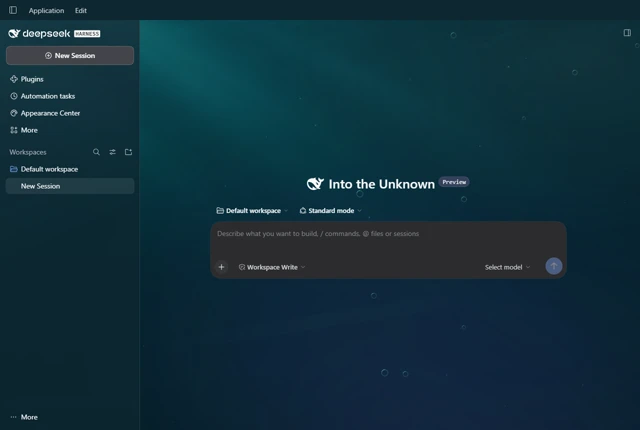
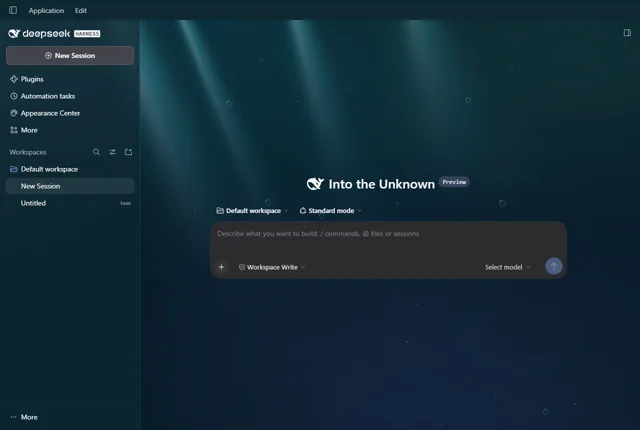
Render Deep Ocean V2 light shafts on the shared canvas

diff --git a/src/client/effects/providers/ocean-lightfield.ts b/src/client/effects/providers/ocean-lightfield.ts
@@ -1,0 +1,88 @@
+import { effectDefinitions } from '../../../core/effects.js'
+import { defineProvider, EFFECT_PROVIDER_API } from './contract.js'
+
+// One small translucent texture is shared by all shafts. Its widening profile models
+// scattering with depth, while the thinner, brighter core fades near the surface.
+function makeShaft(document: Document, scatter: number) {
+  const tile = document.createElement('canvas')
+  tile.width = 96
+  tile.height = 192
+  const ctx = tile.getContext('2d')
+  if (!ctx) throw new Error('Ocean lightfield needs Canvas 2D')
+  const image = ctx.createImageData(tile.width, tile.height)
+  for (let y = 0; y < tile.height; y++) {
+    const depth = y / (tile.height - 1)
+    const radius = 0.19 + depth * (0.27 + scatter * 0.32)
+    const falloff = (1 - depth) ** 1.55
+    for (let x = 0; x < tile.width; x++) {
+      const lateral = (2 * x / (tile.width - 1) - 1) / radius
+      const haze = Math.exp(-1.8 * lateral * lateral)
+      const core = Math.exp(-10 * (lateral + 0.28) ** 2)
+      const light = haze * 0.68 + core * (1 - depth) * 0.32
+      const index = 4 * (y * tile.width + x)
+      image.data[index] = 91 + 62 * core
+      image.data[index + 1] = 223 - 39 * depth
+      image.data[index + 2] = 224 + 18 * depth
+      image.data[index + 3] = 255 * light * falloff
+    }
+  }
+  ctx.putImageData(image, 0, 0)
+  return tile
+}
+
+const shafts = [
+  { x: 0.17, width: 0.32, depth: 0.96, slope: 0.39, opacity: 0.89, phase: 1.4 },
+  { x: 0.46, width: 0.23, depth: 0.74, slope: 0.30, opacity: 0.69, phase: 3.7 },
+  { x: 0.27, width: 0.15, depth: 0.85, slope: 0.41, opacity: 0.72, phase: 2.2 },
+  { x: 0.65, width: 0.41, depth: 0.67, slope: 0.28, opacity: 0.49, phase: 5.2 },
+  { x: 0.06, width: 0.12, depth: 0.63, slope: 0.44, opacity: 0.57, phase: 0.9 },
+]
+
+export const oceanLightfield = defineProvider(effectDefinitions.oceanLightfield, {
+  api: EFFECT_PROVIDER_API,
+  budget: quality => ({ low: 2, balanced: 4, high: 5 })[quality],
+  mount(context, { intensity, beamLength, drift, scatter, beamCount }) {
+    if (!intensity) return
+    const tile = makeShaft(context.scene.ownerDocument, scatter)
+    context.own(() => { tile.width = tile.height = 0 })
+    let count = 0
+    let motion = false
+    let visible = false
+    let time = 0
+    return {
+      update(state, limit) {
+        const previous = visible
+        visible = state.canvas && !state.reducedTransparency
+        count = Math.min(beamCount, limit)
+        motion = visible && state.dynamic && state.quality !== 'low' && drift > 0
+        return previous !== visible
+      },
+      canvas: {
+        visible: () => visible,
+        animated: () => motion,
+        draw(ctx, width, height, delta) {
+          if (motion) time += delta
+          const swell = Math.sin(time * 0.27)
+          for (const shaft of shafts.slice(0, count)) {
+            const ripple = Math.sin(time * 0.41 + shaft.phase)
+            const length = height * beamLength * shaft.depth
+            const breadth = width * shaft.width * (1 + drift * ripple * 0.14)
+            const source = width * (shaft.x + drift * (swell * 0.023 + ripple * 0.014))
+            ctx.save()
+            ctx.globalAlpha = intensity * shaft.opacity * (0.94 + 0.06 * drift * ripple)
+            ctx.transform(1, 0, shaft.slope + drift * (swell + ripple) * 0.042, 1, source, 0)
+            ctx.drawImage(tile, -breadth / 2, 0, breadth, length)
+            ctx.restore()
+          }
+        },
+      },
+    }
+  },
+  fallback(context, { intensity, beamLength }) {
+    if (!intensity) return
+    const layer = context.layer('ocean-lightfield-fallback')
+    Object.assign(layer.style, { position: 'absolute', inset: '0', height: beamLength * 100 + '%',
+      opacity: String(intensity), background: 'radial-gradient(ellipse at 25% -35%, #59d5dd80, transparent 65%)' })
+    return { layout(state) { layer.hidden = !state.canvas || state.reducedTransparency; return !layer.hidden } }
+  },
+})

diff --git a/src/core/effect-descriptors.ts b/src/core/effect-descriptors.ts
@@ -2,11 +2,11 @@ export type Bounds = readonly [minimum: number, maximum: number, initial: number
 type Measure = 'blur' | 'radius' | 'intensity' | 'density' | 'brightness' | 'distortion'
 export const effectGroups = ['group.environment', 'group.materials', 'group.interaction'] as const
 type Group = (typeof effectGroups)[number]
-export type SecondaryEffectPreference = 'movement' | 'speed'
+export type SecondaryEffectPreference = 'movement' | 'speed' | 'length'
 export interface SecondaryEffectControl {
   parameter: string
   bounds: Bounds
-  label: `${'aurora' | 'curtain'}.${SecondaryEffectPreference}`
+  label: 'aurora.movement' | 'aurora.speed' | 'curtain.movement' | 'curtain.speed' | 'ocean.length' | 'ocean.drift'
 }
 
 interface EffectDescriptor {
@@ -27,7 +27,7 @@ interface EffectDescriptor {
   }
   secondary?: {
     whenDefined: string
-    controls: Record<SecondaryEffectPreference, SecondaryEffectControl>
+    controls: Partial<Record<SecondaryEffectPreference, SecondaryEffectControl>>
   }
   optIn?: true
   hint?: 'optionalWebgl'
@@ -50,6 +50,17 @@ export const effectDescriptors = {
       controls: {
         movement: { parameter: 'movement', bounds: [0, 1, 0], label: 'aurora.movement' },
         speed: { parameter: 'speed', bounds: [0.1, 1, 0.25], label: 'aurora.speed' },
+      },
+    },
+  },
+  'ambient.ocean-lightfield': {
+    group: 'group.environment',
+    strength: { parameter: 'intensity', bounds: [0, 1, 0.65], measure: 'intensity' },
+    secondary: {
+      whenDefined: 'beamLength',
+      controls: {
+        length: { parameter: 'beamLength', bounds: [0.5, 0.85, 0.72], label: 'ocean.length' },
+        movement: { parameter: 'drift', bounds: [0, 1, 0.38], label: 'ocean.drift' },
       },
     },
   },

diff --git a/src/core/skin-package.ts b/src/core/skin-package.ts
@@ -1,6 +1,6 @@
 import { gte, minVersion } from 'semver'
 import { parseSkinEffects } from './effects.js'
-import { AURORA_CURTAIN_API_VERSION, DUAL_APPEARANCE_API_VERSION, parseSkinManifest } from './manifest.js'
+import { AURORA_CURTAIN_API_VERSION, DUAL_APPEARANCE_API_VERSION, OCEAN_LIGHTFIELD_API_VERSION, parseSkinManifest } from './manifest.js'
 import { parseScene } from './scene.js'
 import { parseSkinTokens } from './tokens.js'
 import { invalid } from './validation.js'
@@ -14,6 +14,12 @@ export function parseSkinPackage(files: { manifest: unknown; tokens: unknown; ef
   }
   const tokens = parseSkinTokens(files.tokens)
   const effects = parseSkinEffects(files.effects, manifest.capabilities)
+  if (effects.effects.some(effect => effect.id === 'ambient.ocean-lightfield')) {
+    const minimum = minVersion(manifest.engineApi)
+    if (!minimum || !gte(minimum, OCEAN_LIGHTFIELD_API_VERSION)) {
+      invalid('skin.json', 'engineApi', 'ocean-lightfield-engine-api', 'Ocean lightfield requires Engine API 1.9.0 or later')
+    }
+  }
   if (effects.effects.some(effect => effect.id === 'ambient.aurora-curtain')) {
     const minimum = minVersion(manifest.engineApi)
     if (!minimum || !gte(minimum, AURORA_CURTAIN_API_VERSION)) {

diff --git a/src/core/effects.ts b/src/core/effects.ts
@@ -38,6 +38,7 @@ const sizeRange = z.tuple([particleSize, particleSize]).check(z.refine(
   ([min, max]) => min <= max, 'Expected sizes in ascending order',
 ))
 const auroraControls = effectDescriptors['ambient.aurora'].secondary.controls
+const ocean = effectDescriptors['ambient.ocean-lightfield']
 const curtain = effectDescriptors['ambient.aurora-curtain']
 
 export const effectDefinitions = {
@@ -55,6 +56,13 @@ export const effectDefinitions = {
     blur: number(0, 96, 48),
     direction: number(0, 360, 35),
     [auroraControls.movement.parameter]: optionalNumber(auroraControls.movement.bounds),
+  })),
+  oceanLightfield: defineEffect('ambient.ocean-lightfield', 'canvas2d', z.strictObject({
+    intensity: number(...ocean.strength.bounds),
+    beamLength: number(...ocean.secondary.controls.length.bounds),
+    drift: number(...ocean.secondary.controls.movement.bounds),
+    scatter: number(0.1, 0.8, 0.42),
+    beamCount: integer(2, 5, 4),
   })),
   auroraCurtain: defineEffect('ambient.aurora-curtain', 'css', z.strictObject({
     [curtain.strength.parameter]: number(...curtain.strength.bounds),

diff --git a/src/shared/preferences.ts b/src/shared/preferences.ts
@@ -11,7 +11,7 @@ export type QualityChoice = (typeof qualityLevels)[number]
 export type Quality = Exclude<QualityChoice, 'auto'>
 
 export const editableColors = ['canvas', 'surface', 'accent'] as const
-export interface EffectPreference { enabled?: boolean; strength?: number; speed?: number; movement?: number }
+export interface EffectPreference { enabled?: boolean; strength?: number; speed?: number; movement?: number; length?: number }
 
 export interface SkinPreferences {
   artwork?: ArtworkPreference
@@ -43,7 +43,7 @@ export function defaultComposerTransparency(skinId: string) {
 }
 
 export function sameEffectPreference(a?: EffectPreference, b?: EffectPreference) {
-  return a?.enabled === b?.enabled && a?.strength === b?.strength && a?.speed === b?.speed && a?.movement === b?.movement
+  return a?.enabled === b?.enabled && a?.strength === b?.strength && a?.speed === b?.speed && a?.movement === b?.movement && a?.length === b?.length
 }
 
 function readEffectNumber(effect: SkinEffect, parameter: string, fallback: number) {

diff --git a/src/core/manifest.ts b/src/core/manifest.ts
@@ -11,7 +11,8 @@ export const ARTWORK_MOTION_API_VERSION = '1.4.0'
 const ARTWORK_LIGHT_API_VERSION = '1.5.0'
 const EFFECT_TUNING_API_VERSION = '1.6.0'
 export const AURORA_CURTAIN_API_VERSION = '1.8.0'
-export const ENGINE_API_VERSION = AURORA_CURTAIN_API_VERSION
+export const OCEAN_LIGHTFIELD_API_VERSION = '1.9.0'
+export const ENGINE_API_VERSION = OCEAN_LIGHTFIELD_API_VERSION
 const PRIMARY_ARTWORK_API_VERSION = '1.7.0'
 
 const capabilities = ['tokens', 'css', 'assets', 'effects:css', 'effects:canvas2d', 'effects:webgl', 'scene'] as const
@@ -117,6 +118,7 @@ export function checkSkinCompatibility(manifest: SkinManifest, dshVersion: strin
     }
   }
   const compatible = satisfies(ENGINE_API_VERSION, manifest.engineApi)
+    || satisfies(AURORA_CURTAIN_API_VERSION, manifest.engineApi)
     || satisfies(PRIMARY_ARTWORK_API_VERSION, manifest.engineApi)
     || satisfies(EFFECT_TUNING_API_VERSION, manifest.engineApi)
     || satisfies(ARTWORK_LIGHT_API_VERSION, manifest.engineApi)

diff --git a/src/client/settings-copy.ts b/src/client/settings-copy.ts
@@ -164,6 +164,9 @@ const en = {
   restart: "Quit and reopen DSH Desktop, or restart the DSH Web Host and reload this page.",
   hostUnavailable: "Host unavailable.",
   "effect.glass.liquid": "Liquid Glass",
+  "effect.ambient.ocean-lightfield": "Ocean lightfield",
+  "ocean.length": "Beam length",
+  "ocean.drift": "Beam drift",
   "effect.ambient.aurora": "Aurora",
   "effect.ambient.aurora-curtain": "Aurora curtain",
   "curtain.movement": "Curtain fold amplitude",
@@ -445,6 +448,9 @@ const zh: Record<Key, string> = {
   restart: "请退出并重新打开 DSH Desktop，或重启 DSH Web 宿主并重新加载页面。",
   hostUnavailable: "无法连接宿主。",
   "effect.glass.liquid": "液态玻璃",
+  "effect.ambient.ocean-lightfield": "深海光场",
+  "ocean.length": "光束长度",
+  "ocean.drift": "光束漂移",
   "effect.ambient.aurora": "极光",
   "effect.ambient.aurora-curtain": "极光帘幕",
   "curtain.movement": "光幕褶皱幅度",

diff --git a/src/client/effects/providers/index.ts b/src/client/effects/providers/index.ts
@@ -1,4 +1,5 @@
 import type { effectDefinitions } from '../../../core/effects.js'
+import { oceanLightfield } from './ocean-lightfield.js'
 import { auroraCurtain } from './aurora-curtain.js'
 import { ambientLight } from './ambient-light.js'
 import { bubbles, dust, ripple, stars } from './canvas-effects.js'
@@ -7,7 +8,7 @@ import { aurora, brightness, flow, glass, holographic, refraction } from './mate
 import { createProviderRegistry } from './runtime.js'
 
 // Registration order controls composition within the scene's managed surfaces.
-const providers = { refraction, aurora, auroraCurtain, glass, holographic, flow, ambientLight, brightness, dust, bubbles, stars, ripple } satisfies {
+const providers = { refraction, aurora, auroraCurtain, oceanLightfield, glass, holographic, flow, ambientLight, brightness, dust, bubbles, stars, ripple } satisfies {
   [Name in keyof typeof effectDefinitions]: RegisteredProvider<(typeof effectDefinitions)[Name]['id']>
 }
 

diff --git a/src/host/preference-schema.ts b/src/host/preference-schema.ts
@@ -24,10 +24,11 @@ export const bundledSkinPreferencesSchema = z.strictObject({
     enabled: z.optional(z.boolean()),
     strength: z.optional(z.number().check(z.minimum(0), z.maximum(1))),
     speed: numericPreference(secondary.speed.bounds),
+    length: numericPreference(effectDescriptors['ambient.ocean-lightfield'].secondary.controls.length.bounds),
     movement: numericPreference(secondary.movement.bounds),
   })).check(z.refine(effects => Object.entries(effects).every(([id, effect]) =>
-    (effect.speed === undefined && effect.movement === undefined)
-      || (Object.hasOwn(effectDescriptors, id) && Boolean(describeEffect(id as EditableEffect).secondary)))))),
+    (['length', 'speed', 'movement'] as const).every(key => effect[key] === undefined
+      || Boolean(describeEffect(id as EditableEffect).secondary?.controls[key])))))),
   quality: z.optional(z.enum(qualityLevels)),
 })
 

diff --git a/skin-sources/examples/skins/deep-ocean-v2/theme.css b/skin-sources/examples/skins/deep-ocean-v2/theme.css
@@ -1,5 +1,1 @@
-:root[data-dsh-skin-id="com.dsh.skin.deep-ocean-v2"] [data-dsh-skin-package-art] {
-  background-image: url("assets/underwater-light.webp");
-  background-size: cover;
-  opacity: 0.35;
-}
+/* Water color comes from theme tokens. The engine draws all sunbeams. */

diff --git a/docs/deep-ocean-v2-lightfield.md b/docs/deep-ocean-v2-lightfield.md
@@ -1,0 +1,13 @@
+# Deep Ocean V2 · 动态光场
+
+皮肤包 `0.2.0` 使用 Engine API `^1.9.0`。在外观中心更新已安装的「深海光境」ZIP，再到「效果与性能」调整深海光场的光强、光束长度和漂移。亮度归零后，气泡与浮尘仍可独立显示。低画质使用两束静止的光，平衡与高画质分别最多绘制四束和五束。
+
+## Windows Desktop 实拍
+
+官方 DSH `0.2.2-rc.5`，隔离配置，1280 × 860 CSS 像素。将 Alpha 在同一窗口原地更新，均使用皮肤默认值。两次实拍均只有一份共享特效画布。Alpha 加载了一张 1672 × 941 的光束底图，候选版由程序计算光束，未加载底图。另在含代码的会话内输入并检查滚动。测试窗口已退出。
+
+| Alpha 0.1.0 | 动态光场 0.2.0 |
+| --- | --- |
+| ![Alpha](images/o-v2-02/alpha.webp) | ![动态光场](images/o-v2-02/candidate.webp) |
+
+[正文和输入框实拍](images/o-v2-02/reading.webp)

diff --git a/docs/deep-ocean-v2-alpha.md b/docs/deep-ocean-v2-alpha.md
@@ -1,5 +1,7 @@
 # Deep Ocean V2 Alpha
 
+本文记录 Alpha 0.1.0。复建该 ZIP 请在提交 `fbee2eb` 打包。当前版本见[动态光场](deep-ocean-v2-lightfield.md)。
+
 Deep Ocean V2「深海光境」是一份独立的深色皮肤包。青绿柔光从上方斜入水体，细小浮尘和缓慢上升的气泡提供近远层次。亮区集中在上方，中部和输入区保留深色底。底图提供静态的顶部光束，现有引擎负责柔光变化、光流、粒子和玻璃效果。独立可控的动态光束和体积散射留给 O-V2-02 的视觉验证。
 
 - 皮肤 ID 为 `com.dsh.skin.deep-ocean-v2`，包版本为 `0.1.0`（Alpha）。
